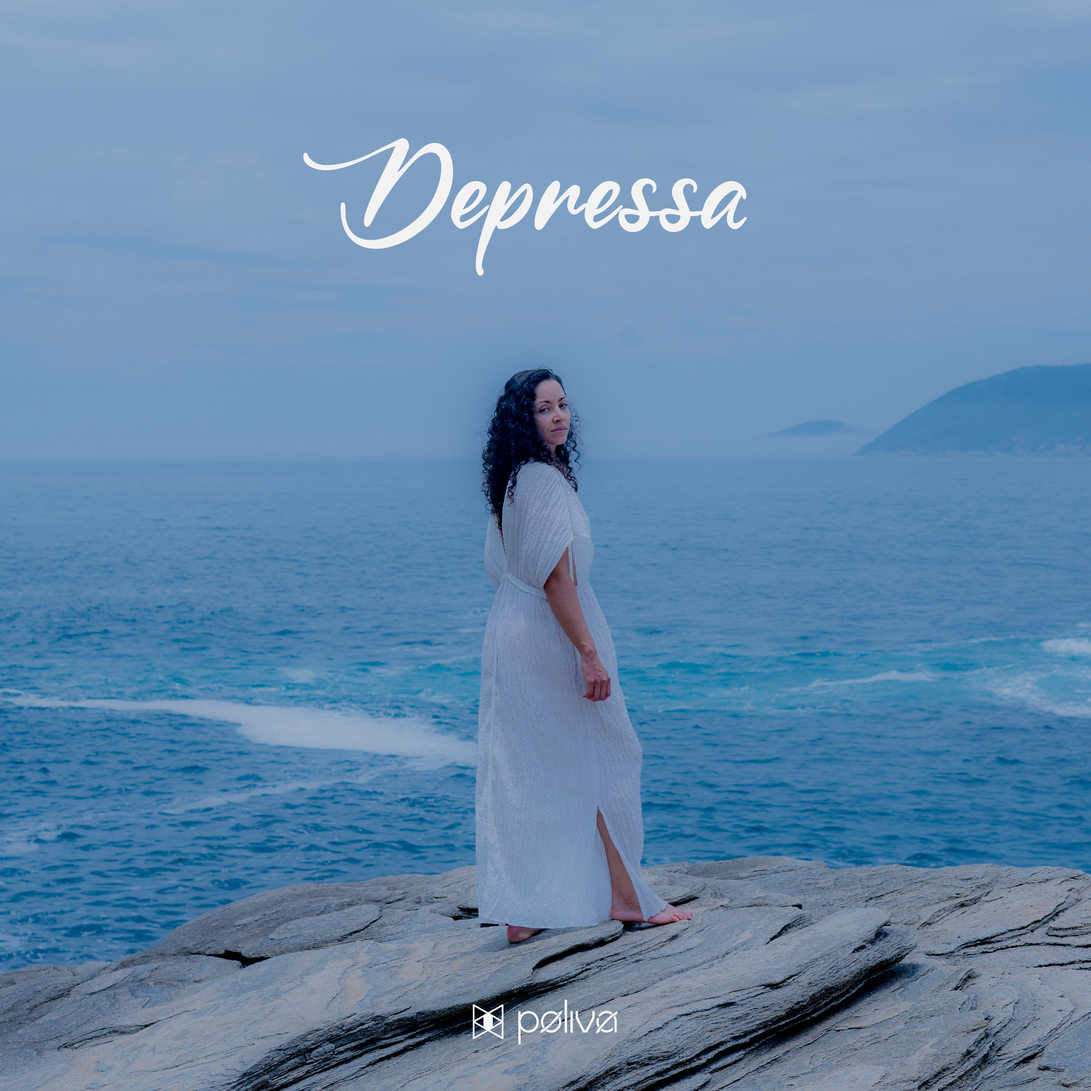
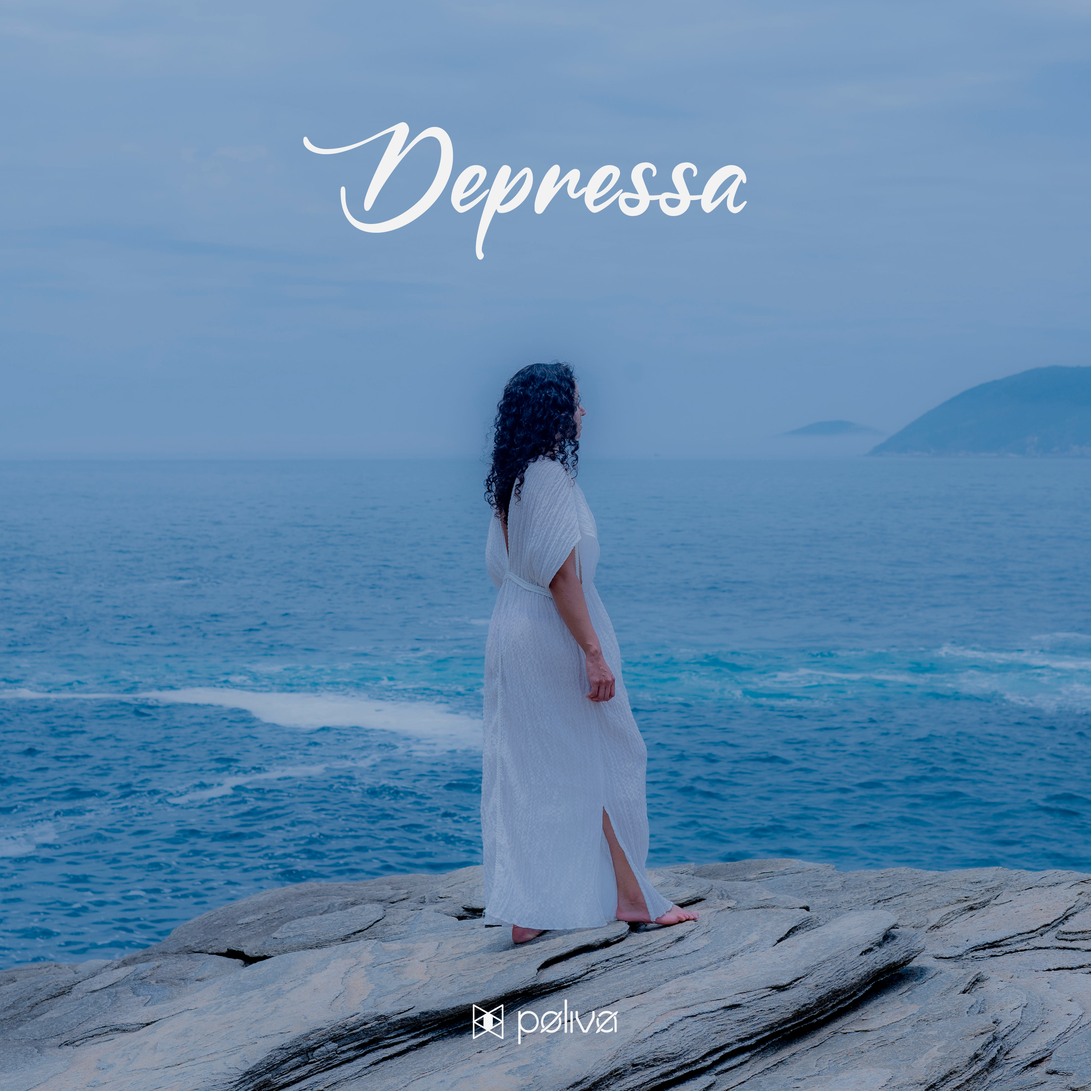
feat: atualiza capa depressa-2026 e data de lançamento

diff --git a/pages/singles.js b/pages/singles.js
@@ -49,6 +49,7 @@ export default function Singles() {
         <img src="https://upload.wikimedia.org/wikipedia/commons/6/6b/WhatsApp.svg" alt="WhatsApp" />
       </a>
 
+      {/* CAPA TOPO - MANTIDA A ORIGINAL */}
       <header className="main-capa-ajustada anim-fade-in">
         <img src="/depressa-novo.jpg" alt="Depressa Capa" className="img-crop-ajustada" />
       </header>
@@ -94,15 +95,19 @@ export default function Singles() {
           </p>
         </section>
 
+        {/* SEÇÃO DEPRESSA - ATUALIZADA */}
         <section className="depressa-2026 anim-fade-up">
           <div className="brutal-header center">
             <h2>Depressa</h2>
           </div>
           <div className="album-art-box reduced interactive-zoom">
+            {/* NOVA CAPA DO ÁLBUM/SINGLE */}
             <img src="/depressa-2026.jpg" alt="Depressa 2026" className="img-album" />
           </div>
           <div style={{ textAlign: 'center', marginTop: '30px' }}>
             <a href="#" className="ouca-btn-anim">Pré Save Aqui</a>
+            {/* DATA ABAIXO DO BOTÃO */}
+            <p className="data-lancamento"><em>a partir do dia 09/04</em></p>
           </div>
         </section>
 
@@ -222,6 +227,9 @@ export default function Singles() {
         .album-art-box.reduced { max-width: 480px; } 
         .img-album { width: 100%; display: block; }
 
+        /* ESTILO DA DATA (IGUAL À CITAÇÃO) */
+        .data-lancamento { font-size: 22px; color: #aaa; margin-top: 20px; letter-spacing: 1px; }
+
         .letra-bloco { margin-bottom: 80px; text-align: center; }
         .letra-bloco h3 { font-size: 20px; color: #a855f7; margin-bottom: 30px; text-transform: none; font-weight: bold; }
         .letra-bloco pre { font-family: inherit; font-size: 16px; line-height: 1.8; color: #aaa; white-space: pre-wrap; transition: 0.4s ease; }
@@ -258,6 +266,7 @@ export default function Singles() {
           .carousel-full-width { padding: 40px 0; }
           .capa-wrapper { width: 250px; }
           .letra-justificada-centro { text-align: center; text-align-last: center; }
+          .data-lancamento { font-size: 18px; }
         }
       `}</style>
     </div>
